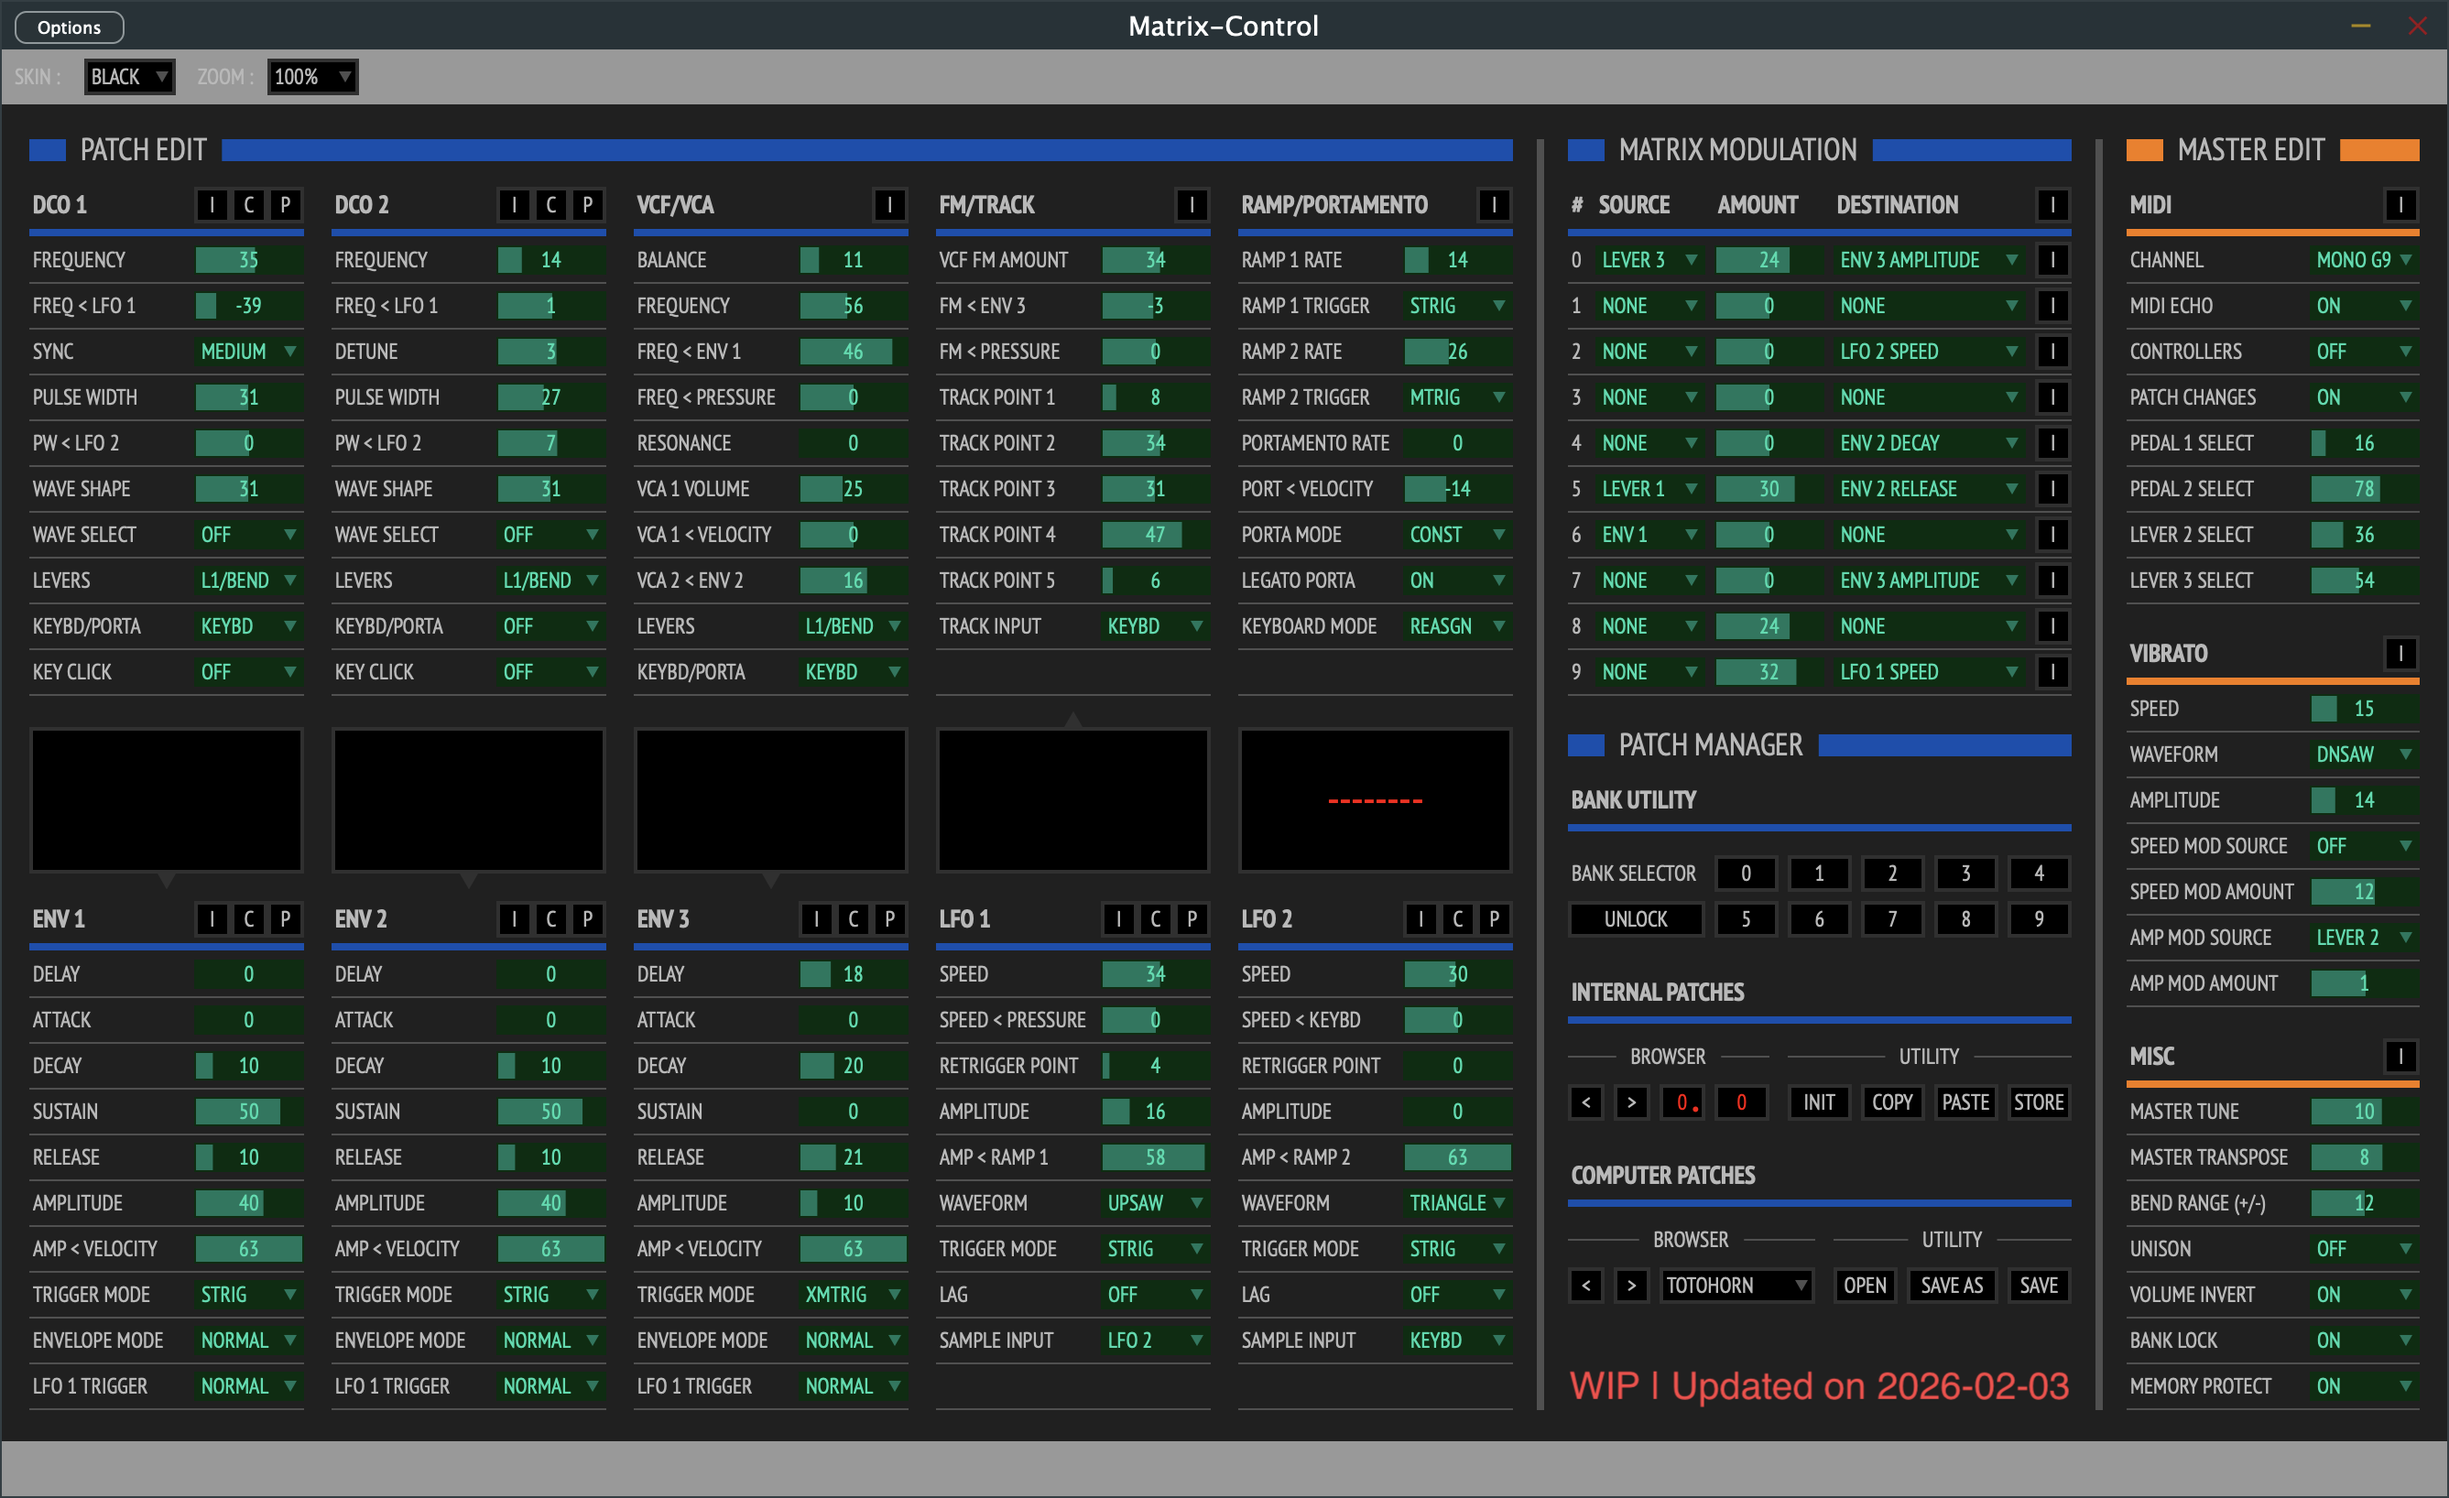
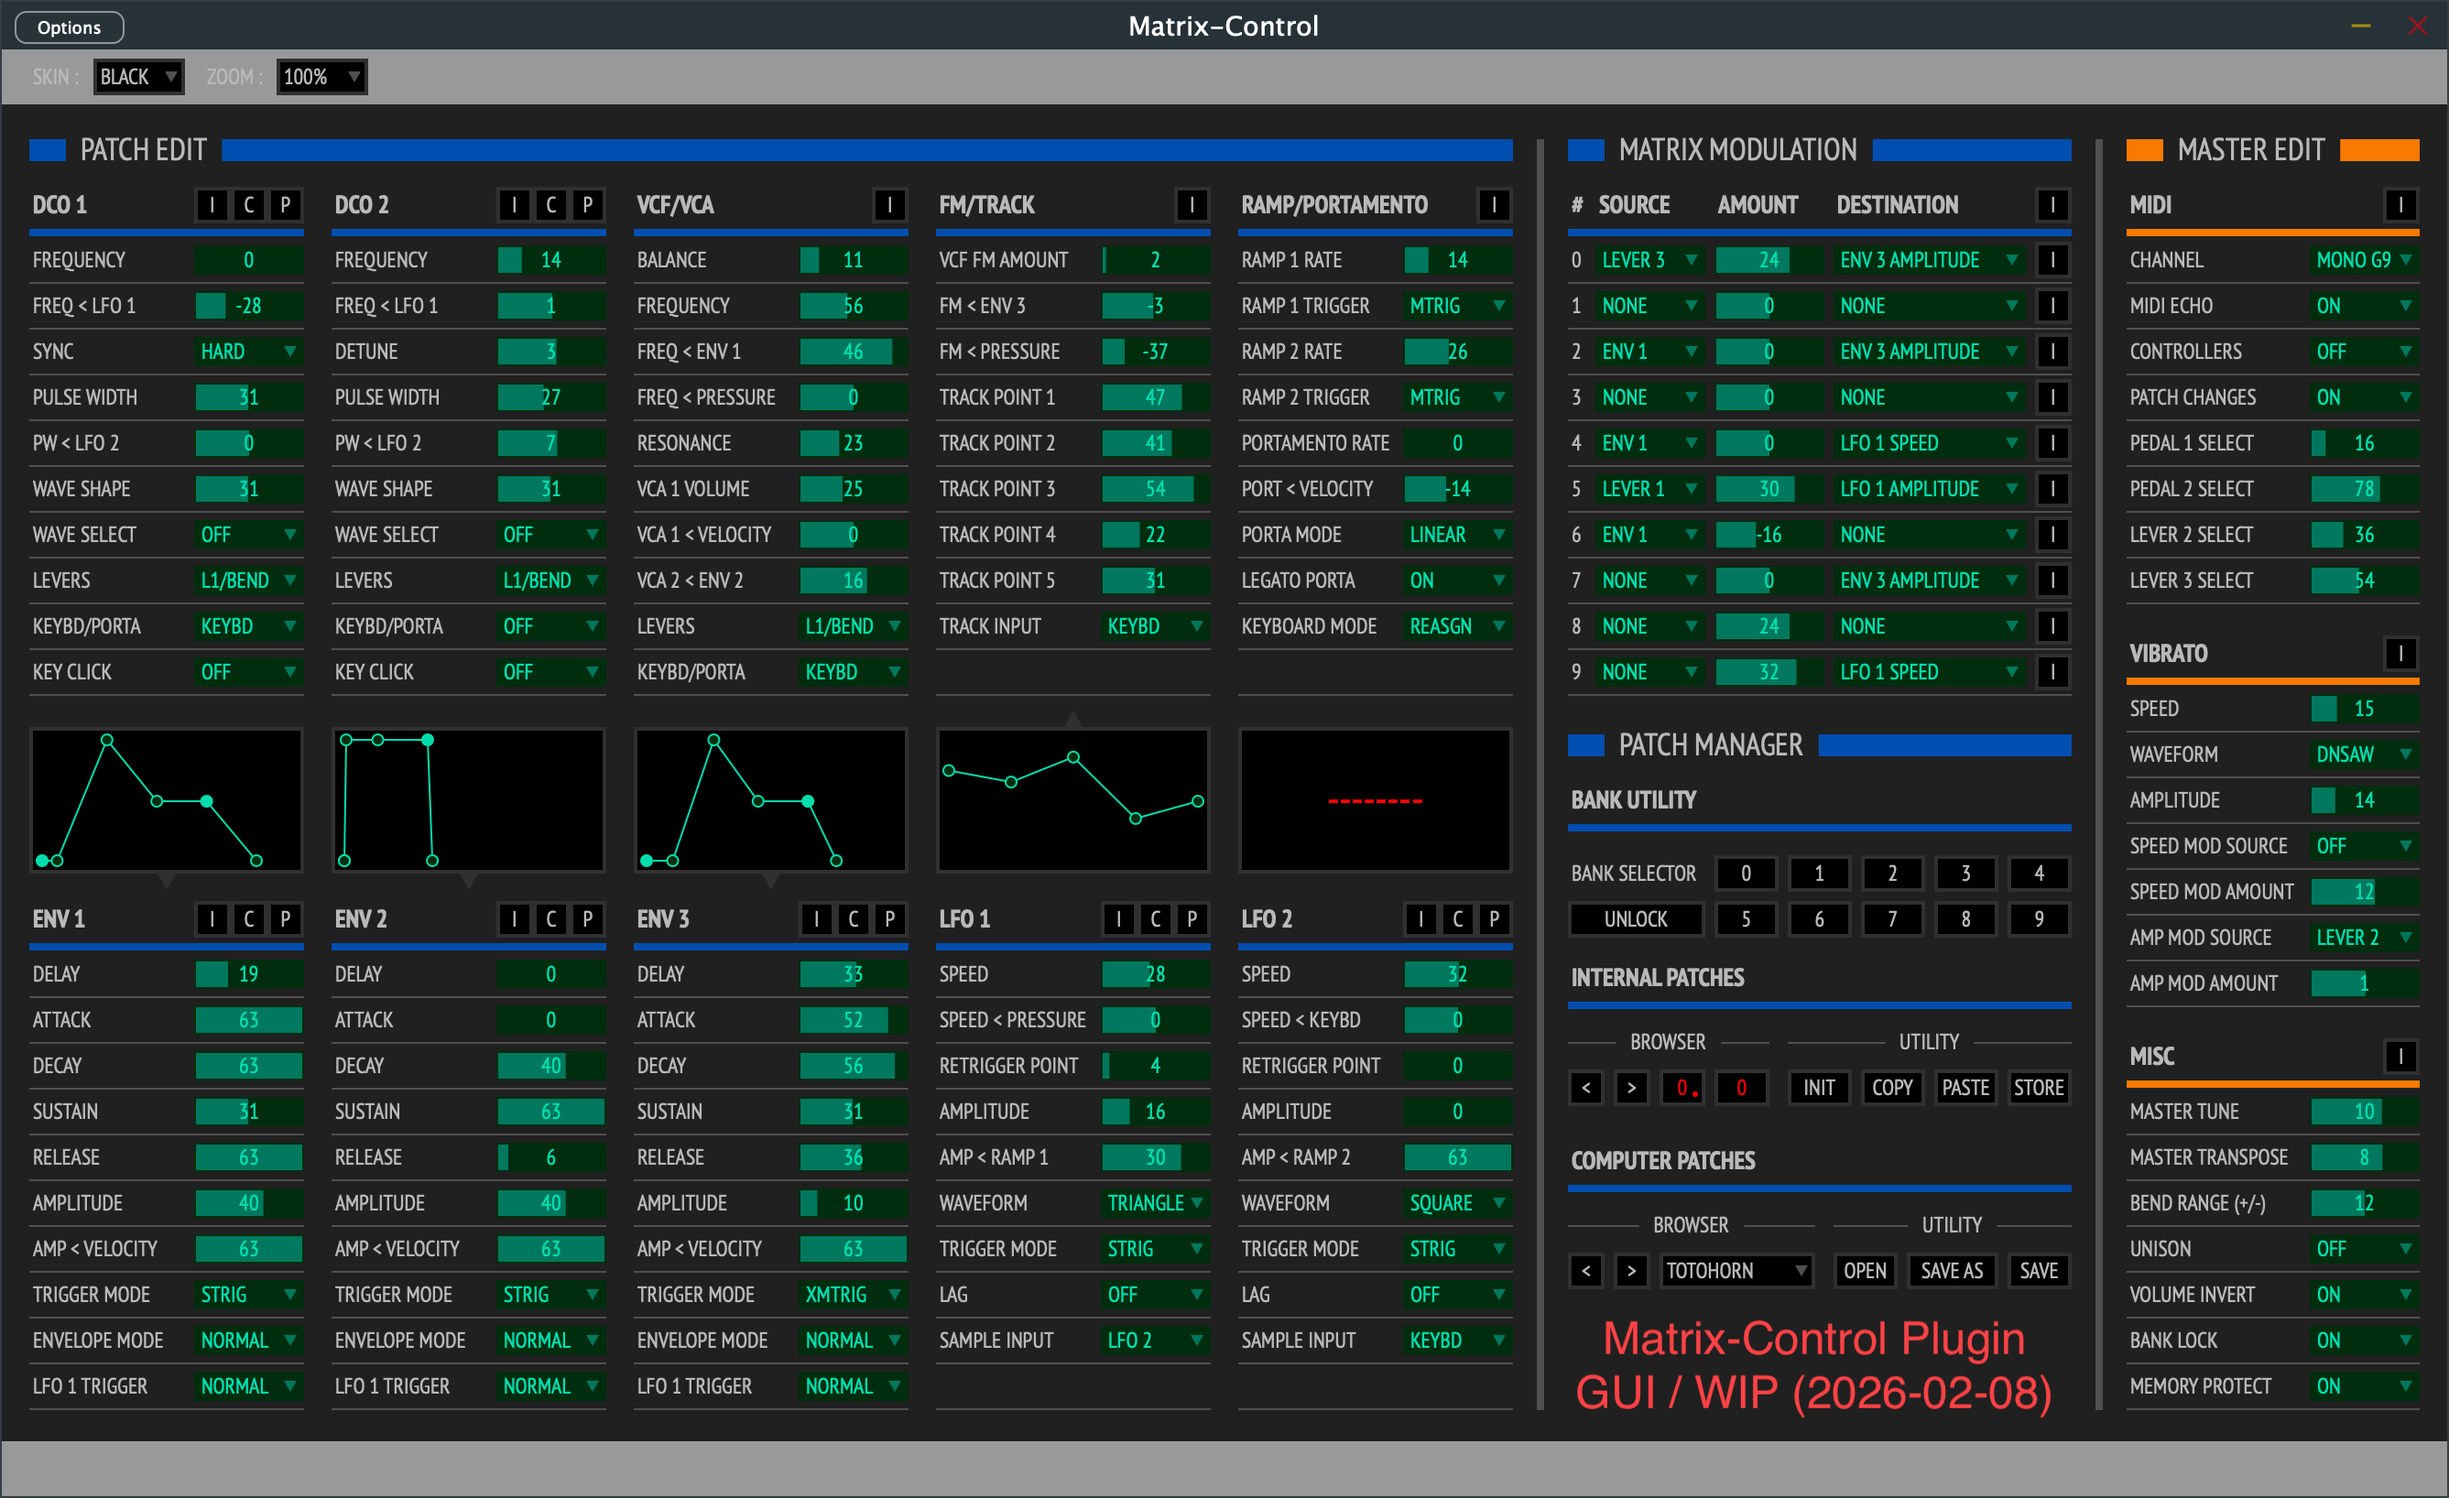
Improve pixel-perfect rendering precision in GUI widgets
- Add std::round() calls in EnvelopeDisplay, TrackGeneratorDisplay, GroupLabel, NumberBox, and VerticalSeparator for crisp pixel alignment
- Simplify curve point drawing in EnvelopeDisplay by extracting repeated calculations
- Adjust BankUtilityPanel height in PluginDimensions
- Update GUI WIP screenshot to reflect current state

diff --git a/Source/GUI/Widgets/EnvelopeDisplay.cpp b/Source/GUI/Widgets/EnvelopeDisplay.cpp
@@ -60,13 +60,13 @@ namespace tss
     {
         const auto triangleColour = skin_->getEnvelopeDisplayBorderColour();
         const auto triangleHeight = kWidgetTriangleBase_ * std::sqrt(3.0f) * 0.5f;
-        const auto centreX = bounds.getCentreX();
+        const auto centreX = std::round(bounds.getCentreX());
         const auto baseY = bounds.getBottom();
 
         juce::Path triangle;
-        triangle.addTriangle(centreX - kWidgetTriangleBase_ * 0.5f, baseY,
-                             centreX + kWidgetTriangleBase_ * 0.5f, baseY,
-                             centreX, baseY + triangleHeight);
+        triangle.addTriangle(std::round(centreX - kWidgetTriangleBase_ * 0.5f), baseY,
+                             std::round(centreX + kWidgetTriangleBase_ * 0.5f), baseY,
+                             centreX, std::round(baseY + triangleHeight));
 
         g.setColour(triangleColour);
         g.fillPath(triangle);
@@ -248,25 +248,23 @@ namespace tss
         
         for (int i = 0; i < kCurvePointCount_; ++i)
         {
+            const auto circleX = envelopePoints.points[i].x - kCurvePointRadius_;
+            const auto circleY = envelopePoints.points[i].y - kCurvePointRadius_;
+            const auto circleDiameter = kCurvePointRadius_ * 2.0f;
+            
             if (i == 1 || i == 2 || i == 3 || i == 5)
             {
                 g.setColour(hollowPointFillColour);
-                g.fillEllipse(envelopePoints.points[i].x - kCurvePointRadius_,
-                             envelopePoints.points[i].y - kCurvePointRadius_,
-                             kCurvePointRadius_ * 2.0f, kCurvePointRadius_ * 2.0f);
+                g.fillEllipse(circleX, circleY, circleDiameter, circleDiameter);
                 
                 g.setColour(cachedCurveColour_);
-                g.drawEllipse(envelopePoints.points[i].x - kCurvePointRadius_,
-                             envelopePoints.points[i].y - kCurvePointRadius_,
-                             kCurvePointRadius_ * 2.0f, kCurvePointRadius_ * 2.0f,
-                             kCurveLineThickness_);
+                g.drawEllipse(circleX, circleY, circleDiameter, circleDiameter, kCurveLineThickness_);
             }
             else
             {
                 g.setColour(cachedCurveColour_);
-                g.fillEllipse(envelopePoints.points[i].x - kCurvePointRadius_,
-                             envelopePoints.points[i].y - kCurvePointRadius_,
-                             kCurvePointRadius_ * 2.0f, kCurvePointRadius_ * 2.0f);
+                g.fillEllipse(circleX, circleY, circleDiameter, circleDiameter);
+                g.drawEllipse(circleX, circleY, circleDiameter, circleDiameter, kCurveLineThickness_);
             }
         }
     }

diff --git a/Source/GUI/Widgets/TrackGeneratorDisplay.cpp b/Source/GUI/Widgets/TrackGeneratorDisplay.cpp
@@ -70,13 +70,13 @@ namespace tss
     {
         const auto triangleColour = skin_->getTrackGeneratorDisplayBorderColour();
         const auto triangleHeight = kWidgetTriangleBase_ * std::sqrt(3.0f) * 0.5f;
-        const auto centreX = bounds.getCentreX();
+        const auto centreX = std::round(bounds.getCentreX());
         const auto baseY = bounds.getY();
 
         juce::Path triangle;
-        triangle.addTriangle(centreX - kWidgetTriangleBase_ * 0.5f, baseY,
-                             centreX + kWidgetTriangleBase_ * 0.5f, baseY,
-                             centreX, baseY - triangleHeight);
+        triangle.addTriangle(std::round(centreX - kWidgetTriangleBase_ * 0.5f), baseY,
+                             std::round(centreX + kWidgetTriangleBase_ * 0.5f), baseY,
+                             centreX, std::round(baseY - triangleHeight));
 
         g.setColour(triangleColour);
         g.fillPath(triangle);

diff --git a/Source/GUI/Widgets/GroupLabel.cpp b/Source/GUI/Widgets/GroupLabel.cpp
@@ -131,9 +131,10 @@ namespace tss
         if (lineWidth > 0.0f)
         {
             const auto lineThicknessHalf = kLineThickness_ * 0.5f;
+            const auto lineY = std::round(centreY - lineThicknessHalf);
             const auto line = juce::Rectangle<float>(
                 area.getX(),
-                centreY - lineThicknessHalf,
+                lineY,
                 lineWidth,
                 kLineThickness_
             );
@@ -149,9 +150,10 @@ namespace tss
         if (lineWidth > 0.0f)
         {
             const auto lineThicknessHalf = kLineThickness_ * 0.5f;
+            const auto lineY = std::round(centreY - lineThicknessHalf);
             const auto line = juce::Rectangle<float>(
                 lineStartX,
-                centreY - lineThicknessHalf,
+                lineY,
                 lineWidth,
                 kLineThickness_
             );

diff --git a/Source/GUI/Widgets/VerticalSeparator.cpp b/Source/GUI/Widgets/VerticalSeparator.cpp
@@ -59,7 +59,7 @@ namespace tss
         const auto bounds = juce::Rectangle<float>(0.0f, 0.0f, 
                                                     static_cast<float>(width), 
                                                     static_cast<float>(height));
-        const auto lineX = bounds.getCentreX() - kLineWidth_ * 0.5f;
+        const auto lineX = std::round(bounds.getCentreX() - kLineWidth_ * 0.5f);
         
         auto line = bounds;
         line.removeFromTop(kTopPadding_);

diff --git a/Source/GUI/Widgets/NumberBox.cpp b/Source/GUI/Widgets/NumberBox.cpp
@@ -182,7 +182,7 @@ namespace tss
         const auto textRight = bounds.getCentreX() + textWidth * 0.5f;
         const auto baselineY = bounds.getCentreY() + cachedFont_.getHeight() * 0.5f - cachedFont_.getDescent();
 
-        return { textRight + kDotXOffset_, baselineY - kDotRadius_ };
+        return { std::round(textRight + kDotXOffset_), std::round(baselineY - kDotRadius_) };
     }
 
     void NumberBox::showEditor()

diff --git a/Source/Shared/PluginDimensions.h b/Source/Shared/PluginDimensions.h
@@ -124,7 +124,7 @@ namespace PluginDimensions
             namespace BankUtilityPanel
             {
                 inline constexpr int kWidth = 275;
-                inline constexpr int kHeight = 100;
+                inline constexpr int kHeight = 92; //100;
             }
             
             namespace InternalPatchesPanel
